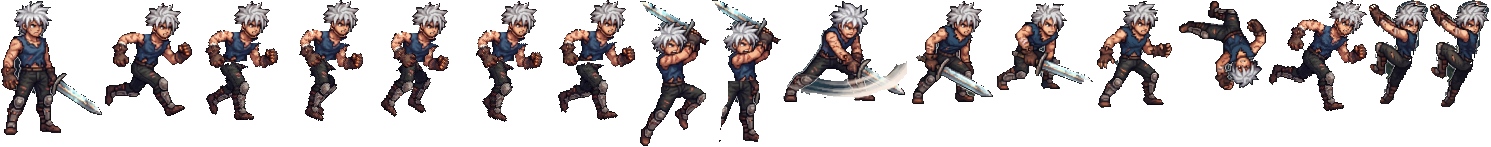
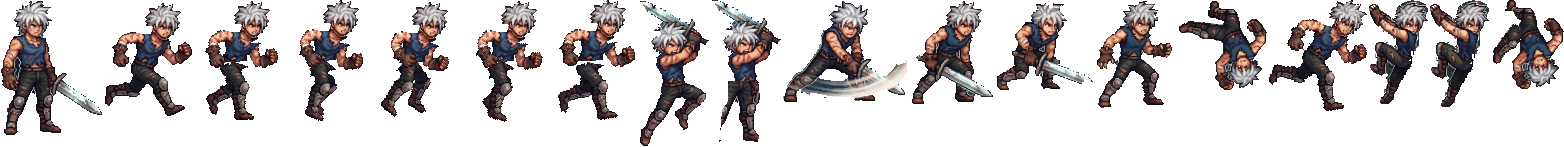
Rolamento vira recompensa do Jorge: Palheta do Pecador, novos quadros de rolamento e botão trancado no celular
Claude-Session: https://claude.ai/code/session_01ELunBH6xPqmejkKKecMgg3

diff --git a/js/render.js b/js/render.js
@@ -108,9 +108,10 @@ function gatherLights() {
     else if (e instanceof SonicNote) L.push({ x: e.x + 5, y: e.y + 5, r: 34, a: 0.8, col: [255, 50, 50] });
     else if (e instanceof Shockwave) L.push({ x: e.x + 6, y: e.y + 6, r: 40, a: 0.8, col: [255, 140, 60] });
   for (const it of G.items) {
+    if (it.wait > 0) continue;
     if (it.type === 'save') L.push({ x: it.x + 8, y: it.y + 2, r: 90, a: 1, col: [255, 140, 50], flick: 1 });
     else if (it.type === 'D') L.push({ x: it.x + 5, y: it.y + 5, r: 46, a: 0.9, col: [120, 220, 255] });
-    else if (it.type === 'H') L.push({ x: it.x + 5, y: it.y + 5, r: 46, a: 0.9, col: [255, 170, 70] });
+    else if (it.type === 'H') L.push({ x: it.x + 5, y: it.y + 5, r: it.reward ? 64 : 46, a: 0.95, col: [255, 120, 70] });
     else if (it.type === 'G') L.push({ x: it.x + 5, y: it.y + 5, r: 46, a: 0.9, col: [180, 130, 255] });
     else if (it.type === '+') L.push({ x: it.x + 5, y: it.y + 5, r: 40, a: 0.9, col: [255, 60, 80] });
     else if (it.type === 'E') L.push({ x: it.x + 5, y: it.y + 4, r: 80, a: 1, col: [120, 200, 255] });
@@ -224,6 +225,7 @@ function drawCracked() {
 function drawItems() {
   const t = G.time;
   for (const it of G.items) {
+    if (it.wait > 0) continue;
     const bob = Math.round(Math.sin(t * 2.5 + it.x) * 4);
     if (it.type === 'save') {
       const cx = (it.x + 8) * AP, by = (it.y + 16) * AP;
@@ -232,6 +234,15 @@ function drawItems() {
       ctx.drawImage(fr[Math.floor(t * 12) % fr.length], cx - 13, by - 74 + 28 - 32);
     } else if (it.type === 'D' || it.type === 'H' || it.type === 'G') {
       const s = it.type === 'D' ? SPR.relicD : it.type === 'H' ? SPR.relicH : SPR.relicG;
+      if (it.reward && it.vy === 0) {           // feixe de luz sobre a recompensa do chefe
+        const cx = (it.x + 5) * AP, by = (it.y + it.h) * AP;
+        ctx.save(); ctx.globalCompositeOperation = 'lighter';
+        const g = ctx.createLinearGradient(0, by - 150, 0, by);
+        g.addColorStop(0, 'rgba(255,90,60,0)'); g.addColorStop(1, `rgba(255,150,80,${0.22 + 0.08 * Math.sin(t * 4)})`);
+        ctx.fillStyle = g; ctx.fillRect(cx - 14, by - 150, 28, 150);
+        ctx.restore();
+        if (Math.random() < 0.3) spawnParticles(it.x + 5 + (Math.random() - 0.5) * 8, it.y + it.h, 1, '#ffb070', { angle: -Math.PI / 2, spread: 0.3, speed: 30, life: 0.9, size: 1 });
+      }
       ctx.drawImage(s, (it.x + 5) * AP - 18, (it.y + 5) * AP - 23 + bob);
     } else if (it.type === '+') {
       ctx.drawImage(SPR.life, (it.x + 5) * AP - 18, (it.y + 5) * AP - 22 + bob);
@@ -364,7 +375,7 @@ function shadowAt(x, y, w) {
 
 function heroPose(p) {
   if (p.wall) return 'wall' + (Math.floor(p.climbAnim / 10) % 2);
-  if (p.dashT > 0) return 'roll';
+  if (p.dashT > 0) return p.rollPose();
   if (p.stun > 0) return 'hurt';
   if (p.atkKind) {
     const ph = p.atkPhase();
@@ -426,7 +437,7 @@ function drawPlayer() {
   }
   shadowAt(cx, fy, p.onGround ? 26 : 16);
   const bob = pose === 'idle' && Math.sin(G.time * 2.6) > 0.6 ? -1 : 0;
-  drawHero(pose, cx, fy, p.facing, pose === 'roll' ? p.rollAngle() : 0, alpha, bob);
+  drawHero(pose, cx, fy, p.facing, pose.startsWith('roll') ? p.rollAngle() : 0, alpha, bob);
   // efeitos dos golpes
   if (p.atkKind && p.atkPhase() >= 1) {
     const a = ATK[p.atkKind], prog = 1 - (p.atkT - (a.hitTo - 0.06)) / (a.hitFrom - a.hitTo + 0.06);

diff --git a/js/main.js b/js/main.js
@@ -56,6 +56,11 @@ function enterRoom(id, px, py) {
     }
   }
 
+  // chefe já vencido mas a recompensa ficou para trás: ela continua ao lado do corpo
+  if (def.boss === 'guitarist' && (G.data.bosses || {}).guitarist) {
+    const b = G.enemies.find(e => e instanceof GuitaristBoss);
+    if (b) dropBossReward(b, 0);
+  }
   if (!G.data.visited[id]) { G.data.visited[id] = true; writeSave(); }
   G.roomTitle = { text: def.name, t: 2.5 };
   const p = G.player;
@@ -106,6 +111,21 @@ function updateItems(dt) {
   const p = G.player;
   let onSave = false;
   for (const it of G.items) {
+    if (it.drop) {                    // recompensa do chefe: espera, salta e cai no chão
+      if (it.wait > 0) {
+        it.wait -= dt;
+        if (it.wait <= 0) { G.shake = Math.max(G.shake, 0.15); spawnParticles(it.x + 5, it.y + 5, 26, '#ffcf70', { speed: 120, life: 0.7 }); }
+        continue;
+      }
+      it.vy = Math.min(it.vy + 600 * dt, 260);
+      it.x += it.vx * dt; it.y += it.vy * dt;
+      const ty = Math.floor((it.y + it.h) / TILE), tx = Math.floor((it.x + 5) / TILE);
+      if (it.vy > 0 && (isSolid(tileAt(tx, ty)) || tileAt(tx, ty) === '=')) {
+        it.y = ty * TILE - it.h; it.vx = 0;
+        if (it.vy > 80) spawnParticles(it.x + 5, it.y + it.h, 8, '#d8a040', { angle: -Math.PI / 2, spread: 2, speed: 50, life: 0.4 });
+        it.vy = 0;
+      }
+    }
     if (it.type === 'heart') {        // corações que caem dos inimigos
       it.vy = Math.min((it.vy || 0) + 500 * dt, 200);
       it.y += it.vy * dt;
@@ -139,7 +159,7 @@ function updateItems(dt) {
         break;
       case 'H':
         collect(it, () => { G.data.abilities.dash = true; },
-          'Rolamento', ctrl('Aperte C para rolar para a frente, até no ar. Durante o rolamento, ataques inimigos não te atingem.', 'Toque em ROLAR para rolar para a frente, até no ar. Durante o rolamento, ataques inimigos não te atingem.'), '#ffb347');
+          'Rolamento desbloqueado', ctrl('A Palheta do Pecador vibra em sua mão. Aperte C para rolar para a frente, até no ar. Durante o rolamento, ataques inimigos não te atingem.', 'A Palheta do Pecador vibra em sua mão. Toque em ROLAR para rolar para a frente, até no ar. Durante o rolamento, ataques inimigos não te atingem.'), '#ffb347');
         break;
       case 'G':
         collect(it, () => { G.data.abilities.climb = true; },
@@ -191,9 +211,22 @@ function respawnAtSave() {
 }
 
 // ---------- loop ----------
+// botão ROLAR do celular fica trancado até derrotar o Jorge
+let rollBtn, rollWasLocked = null;
+function syncTouchLocks() {
+  rollBtn = rollBtn || document.querySelector('[data-act="dash"]');
+  if (!rollBtn || !G.data) return;
+  const locked = !G.data.abilities.dash;
+  if (locked === rollWasLocked) return;
+  rollBtn.classList.toggle('locked', locked);
+  if (rollWasLocked && !locked) { rollBtn.classList.add('unlocked'); setTimeout(() => rollBtn.classList.remove('unlocked'), 3000); }
+  rollWasLocked = locked;
+}
+
 function update(dt) {
   G.time += dt;
   if (G.state === 'title') return;
+  syncTouchLocks();
 
   if (Input.pressed.pause && G.state === 'play' && !Controls.open) { G.paused = true; Controls.show('pause'); }
   if (G.paused) return;

diff --git a/index.html b/index.html
@@ -39,7 +39,7 @@
         <div class="row"><span class="keys"><span class="k">↓</span><span class="k">S</span></span><b>Agachar</b><i>atacar agachado = estocada · ↓ + pular desce da plataforma</i></div>
         <div class="row"><span class="keys"><span class="k">Shift</span><span class="k">V</span></span><b>Dash</b><i>arrancada rápida pelo chão</i></div>
         <div class="row" data-need="doubleJump"><span class="keys"><span class="k">Z</span></span><b>Pulo duplo</b><i>no ar · após o Salto Etéreo</i></div>
-        <div class="row" data-need="dash"><span class="keys"><span class="k">C</span></span><b>Rolar</b><i>invulnerável durante o rolamento · após o Rolamento</i></div>
+        <div class="row" data-need="dash"><span class="keys"><span class="k">C</span></span><b>Rolar</b><i>invulnerável durante o rolamento · ao derrotar Jorge O Pecador</i></div>
         <div class="row" data-need="climb"><span class="keys"><span class="k">← →</span></span><b>Escalar</b><i>pule numa parede segurando a direção · ↑ ↓ sobe e desce · pular = salto de parede · após as Garras</i></div>
         <div class="row"><span class="keys"><span class="k">Esc</span><span class="k">P</span></span><b>Pausar</b></div>
       </div>
@@ -59,7 +59,7 @@
         <div class="row"><span class="keys"><span class="mini jump s">▲</span></span><b>Pular</b><i>segure para mais alto · no ar = pulo duplo (após o Salto Etéreo)</i></div>
         <div class="row"><span class="keys"><span class="mini atk s">⚔</span></span><b>Atacar</b><i>2× seguidas = combo · agachado = estocada</i></div>
         <div class="row"><span class="keys"><span class="mini sprint s">D</span></span><b>Dash</b><i>arrancada rápida pelo chão</i></div>
-        <div class="row" data-need="dash"><span class="keys"><span class="mini dash s">R</span></span><b>Rolar</b><i>invulnerável · após o Rolamento</i></div>
+        <div class="row" data-need="dash"><span class="keys"><span class="mini dash s">R</span></span><b>Rolar</b><i>invulnerável · ao derrotar Jorge O Pecador</i></div>
         <div class="row" data-need="climb"><span class="keys"><span class="mini dpad s">✥</span></span><b>Escalar</b><i>pule na parede segurando a direção dela · após as Garras</i></div>
         <div class="row"><span class="keys"><span class="mini pause s">II</span></span><b>Pausar</b><i>botão no alto da tela</i></div>
         <p class="tip">Jogue com o celular deitado.</p>

diff --git a/css/style.css b/css/style.css
@@ -29,14 +29,14 @@ canvas#game {
 }
 #menu::before {                    /* preenche as sobras da tela com a própria arte desfocada */
   content: ""; position: absolute; inset: -40px;
-  background: url(../assets/menu_bg.jpg?v=20261017153103) center / cover no-repeat;
+  background: url(../assets/menu_bg.jpg?v=20261017154107) center / cover no-repeat;
   filter: blur(18px) brightness(.45);
 }
 #menu .stage {
   position: relative; container-type: inline-size;
   width: min(100vw, calc(100dvh * 2576 / 1405));
   aspect-ratio: 2576 / 1405;
-  background: url(../assets/menu_bg.jpg?v=20261017153103) center / 100% 100% no-repeat;
+  background: url(../assets/menu_bg.jpg?v=20261017154107) center / 100% 100% no-repeat;
   box-shadow: 0 0 60px rgba(0, 0, 0, .7);
 }
 /* brilho da joia da espada */
@@ -68,7 +68,7 @@ canvas#game {
 }
 #menu .item::before {             /* faixa vermelha com o dragão (só na opção selecionada) */
   content: ""; position: absolute; left: 0; top: 0; width: 100%; aspect-ratio: 540 / 145;
-  background: url(../assets/menu_band.png?v=20261017153103) 0 0 / 100% 100% no-repeat;
+  background: url(../assets/menu_band.png?v=20261017154107) 0 0 / 100% 100% no-repeat;
   opacity: 0; transition: opacity .15s; z-index: -1;
 }
 #menu .item.sel { color: #f0dfcc; }
@@ -221,3 +221,8 @@ body.in-menu #touch { display: none !important; }
 #controls .mini.dpad.demo .arr.right { margin: -6px 0 0 21px;  border-left: 8px solid #cfc6b0; border-right-width: 0; }
 #controls .mini.dpad.demo .nub { position: absolute; left: 50%; top: 50%; width: 24px; height: 24px; margin: -12px; border-radius: 50%;
   background: radial-gradient(circle at 35% 30%, #8a909a, #3d424a 60%, #1a1d21); border: 2px solid #000; }
+
+/* botão ROLAR trancado até vencer o chefe */
+#buttons button.locked { filter: grayscale(1) brightness(.55); opacity: .45; font-size: 0 !important; }
+#buttons button.locked::after { content: "🔒"; font-size: 20px; }
+#buttons button.unlocked { animation: tuthint .8s ease-in-out 4; }

diff --git a/js/hero.js b/js/hero.js
@@ -5,7 +5,7 @@
 //  Cada pose: [x, y, largura, altura, âncoraX, âncoraY] — âncora = entre os pés.
 //  Escalada (wall0/wall1): âncoraX = lado que encosta na parede, âncoraY = meio.
 // =============================================================
-const HERO_FRAMES = {"idle": [0, 0, 103, 136, 38.0, 135.0], "run0": [105, 0, 87, 116, 44.0, 116.0], "run1": [194, 0, 87, 120, 44.0, 120.0], "run2": [283, 0, 87, 121, 44.0, 121.0], "run3": [372, 0, 87, 117, 45.0, 117.0], "run4": [461, 0, 87, 122, 44.0, 122.0], "run5": [550, 0, 87, 120, 44.0, 120.0], "jump": [639, 0, 71, 147, 29.0, 146.0], "atk_raise": [712, 0, 69, 142, 28.0, 142.0], "attack": [783, 0, 126, 103, 43.0, 102.0], "crouch": [911, 0, 83, 105, 44.0, 104.0], "lunge": [996, 0, 98, 91, 55.0, 90.0], "hurt": [1096, 0, 77, 108, 35.0, 108.0], "roll": [1175, 0, 92, 91, 61.0, 90.0], "dash": [1269, 0, 98, 111, 57.0, 111.0], "wall0": [1369, 0, 59, 104, 0.0, 52.0], "wall1": [1430, 0, 59, 107, 0.0, 53.5]};
+const HERO_FRAMES = {"idle": [0, 0, 103, 136, 38.0, 135.0], "run0": [105, 0, 87, 116, 44.0, 116.0], "run1": [194, 0, 87, 120, 44.0, 120.0], "run2": [283, 0, 87, 121, 44.0, 121.0], "run3": [372, 0, 87, 117, 45.0, 117.0], "run4": [461, 0, 87, 122, 44.0, 122.0], "run5": [550, 0, 87, 120, 44.0, 120.0], "jump": [639, 0, 71, 147, 29.0, 146.0], "atk_raise": [712, 0, 69, 142, 28.0, 142.0], "attack": [783, 0, 126, 103, 43.0, 102.0], "crouch": [911, 0, 83, 105, 44.0, 104.0], "lunge": [996, 0, 98, 91, 55.0, 90.0], "hurt": [1096, 0, 77, 108, 35.0, 108.0], "roll": [1175, 0, 92, 91, 61.0, 90.0], "dash": [1269, 0, 98, 111, 57.0, 111.0], "wall0": [1369, 0, 59, 104, 0.0, 52.0], "wall1": [1430, 0, 59, 107, 0.0, 53.5], "roll_tuck": [1493, 0, 71, 89, 35.5, 89.0]};
 const RUN_FRAMES = 6;  // ciclo de corrida: run0..run5
 const heroImg = new Image();
 heroImg.src = 'assets/hero.png?v=' + ASSET_V;

diff --git a/js/sprites.js b/js/sprites.js
@@ -111,6 +111,25 @@ function relicSprite(base, light, dark) {
     b.set(11, 15, C('#ffffff')); b.set(10, 16, C('#ffffff'));
   }, { light: '#d8d4cc' });
 }
+// Palheta do Pecador: recompensa do Jorge (libera o Rolamento)
+function pickSprite() {
+  return makeSprite(36, 46, b => {
+    const pick = (s, c) => {                    // palheta: topo arredondado, ponta para baixo
+      b.ellipse(11, 13, 9 - s, 9 - s, c); b.ellipse(25, 13, 9 - s, 9 - s, c);
+      b.poly([[2 + s, 14], [34 - s, 14], [18, 43 - s * 1.6]], c);
+      b.rect(11, 4 + s, 14, 10, c);
+    };
+    pick(0, C('#7a4a14'));                      // aro de ouro velho
+    pick(1, C('#d8a040'));
+    pick(3, C('#5a0a14'));                      // corpo vermelho-sangue
+    pick(4, C('#9a1424'));
+    b.ellipse(12, 12, 4, 4, C('#d83040'));     // reflexo
+    b.ellipse(11, 11, 1.6, 1.6, C('#ff8a8a'));
+    b.poly([[20, 9], [13, 22], [18, 22], [15, 33], [24, 18], [19, 18], [23, 9]], C('#ffe6a0'));   // raio gravado
+    b.poly([[21, 10], [15, 21], [19, 21], [17, 29], [22, 19], [18, 19], [22, 10]], C('#fff8e0'));
+    b.set(29, 9, C('#fff0c0')); b.set(30, 10, C('#fff0c0'));
+  }, { light: '#d8d4cc' });
+}
 function lifeShardSprite() {
   return makeSprite(36, 44, b => {
     b.poly([[17, 2], [25, 18], [20, 40], [11, 40], [9, 16]], C('#b0182c'));
@@ -250,7 +269,7 @@ function buildSprites() {
   SPR.bat = [0, 1, 2].map(k => batFrame(k, false).canvas());
   SPR.batHit = batFrame(1, true).canvas();
   SPR.relicD = relicSprite('#3ab0d8', '#9ff0ff', '#1c6a8a').canvas();
-  SPR.relicH = relicSprite('#e08a2a', '#ffd28a', '#8a4a14').canvas();
+  SPR.relicH = pickSprite().canvas();
   SPR.relicG = relicSprite('#8a5ae0', '#d0b8ff', '#4a2a8a').canvas();
   SPR.life = lifeShardSprite().canvas();
   SPR.soul = soulSprite().canvas();

diff --git a/js/boss.js b/js/boss.js
@@ -216,7 +216,8 @@ class GuitaristBoss extends Enemy {
     closeBossGate(false);
     for (const e of G.enemies) if (e instanceof SonicNote || e instanceof Shockwave) e.dead = true;
     G.shake = 0.3;
-    showBanner('Chefe derrotado', 'Jorge, o Pecador, tocou seu último acorde. O portão se abre... e algo brilha no alto da galeria.', '#ff6a3a');
+    dropBossReward(this, 0.5);                // a Palheta salta do corpo logo depois que ele cai
+    showBanner('Chefe derrotado', 'Jorge, o Pecador, tocou seu último acorde. Algo escapa de suas mãos e cai no chão da galeria...', '#ff6a3a');
     G.banner.t = 6;
   }
 }
@@ -427,4 +428,14 @@ function drawBossUI() {
   ctx.fillStyle = '#ff7a50'; ctx.fillRect(x + 6, y + 6, Math.round(len * f), 2);
   ctx.fillStyle = 'rgba(0,0,0,0.6)'; ctx.fillRect(x + 6 + len / 2, y + 6, 2, 14);   // marca da fase 2
   text(BOSS_NAME, x + W / 2, y + 32, { size: 20, font: FONT_T, weight: 800, align: 'center', color: '#e0c8b0', spacing: 3 });
+}
+
+// ---------- recompensa: Palheta do Pecador (libera o Rolamento) ----------
+const BOSS_REWARD_KEY = 'galeria:jorge';
+function dropBossReward(boss, wait) {
+  if (G.data.collected[BOSS_REWARD_KEY]) return;
+  const cx = boss.x + boss.w / 2;
+  const toMid = cx < G.room.pw / 2 ? 1 : -1;            // salta para o lado mais aberto da arena
+  G.items.push({ type: 'H', key: BOSS_REWARD_KEY, x: cx - 5, y: boss.y + 8, w: 10, h: 10,
+    drop: true, wait, vx: wait ? toMid * 40 : 0, vy: wait ? -230 : 0, reward: true });
 }

diff --git a/js/entities.js b/js/entities.js
@@ -116,7 +116,7 @@ class Player {
       this.vx = this.facing * PHYS.DASH_SPEED;
       this.vy = 0;
       if (Math.floor(this.dashT * 60) % 4 === 0)
-        this.trail.push({ pose: 'roll', x: this.x + this.w / 2, y: this.y + this.h, f: this.facing, life: 0.18, rot: this.rollAngle() });
+        { const rp = this.rollPose(); if (rp !== 'crouch') this.trail.push({ pose: rp, x: this.x + this.w / 2, y: this.y + this.h, f: this.facing, life: 0.18, rot: this.rollAngle() }); }
       if (this.onGround && Math.random() < 0.5)
         G.particles.push({ x: this.x + this.w / 2, y: this.y + this.h - 1, vx: -this.facing * 30, vy: -10, life: 0.35, max: 0.35, color: '#5a5a50', size: 2, grav: 0 });
       if (this.dashT <= 0) this.vx = this.facing * PHYS.RUN;
@@ -252,7 +252,17 @@ class Player {
     }
   }
 
-  rollAngle() { return (1 - this.dashT / PHYS.DASH_TIME) * Math.PI * 2 * this.facing; }
+  // rolamento: agacha (0–12%), cambalhota completa (12–88%) e aterrissa agachado
+  rollProg() { return 1 - this.dashT / PHYS.DASH_TIME; }
+  rollPose() {
+    const q = this.rollProg();
+    if (q < 0.12 || q > 0.88) return 'crouch';
+    return q > 0.3 && q < 0.7 ? 'roll_tuck' : 'roll';
+  }
+  rollAngle() {
+    const q = Math.min(1, Math.max(0, (this.rollProg() - 0.12) / 0.76));
+    return (Math.PI + q * Math.PI * 2) * this.facing;     // o quadro 'roll' é de cabeça para baixo
+  }
 
   toSafe() {
     this.x = this.safe.x; this.y = this.safe.y;

diff --git a/js/rooms.js b/js/rooms.js
@@ -92,7 +92,7 @@ const ROOMS = {
     theme: 'torre', map: [
       '########################################',
       '#......................................#',
-      '#......H...............................#',
+      '#..+...................................#',
       '########...............................#',
       '#.........=====.........F..............#',
       '#......................................#',

diff --git a/js/engine.js b/js/engine.js
@@ -1,5 +1,5 @@
 // versão dos arquivos (atualizada pelo atualizar_versao.sh) — evita imagem antiga em cache
-const ASSET_V = '20261017153103';
+const ASSET_V = '20261017154107';
 
 // =============================================================
 //  MOTOR: constantes, estado global, colisão com blocos, partículas

diff --git a/README.md b/README.md
@@ -14,7 +14,7 @@ Abra o `index.html` no navegador — ou, se o GitHub Pages estiver ativado, aces
 | Pular | Z / Espaço | ▲ |
 | Atacar (aperte 2× para o combo: corte para baixo + corte para cima) | X | ⚔ |
 | Dash (arrancada no chão) | Shift / V | DASH |
-| Rolar (depois de pegar) | C / Shift | ROLAR |
+| Rolar (depois de vencer Jorge O Pecador) | C / Shift | ROLAR |
 | Agachar (atacar agachado = estocada) | ↓ | direcional pra baixo |
 | Escalar (depois de pegar as Garras) | pule na parede e segure a direção · ↑/↓ sobe/desce · pular = salto de parede | igual, com o direcional |
 | Descer da plataforma de madeira | ↓ + pular | direcional pra baixo + ▲ |
@@ -30,8 +30,8 @@ No começo de um jogo novo, um **tutorial** ensina os comandos (teclado ou toque
 - Herói com o sprite do autor, sem a borda branca: parado, corrida em 6 quadros, pulo, combo de espada (ergue → corta para baixo → corta para cima), agachado, estocada, ferido, rolamento, dash e escalada
 - Inimigos: **Lobisomem** (arte do autor) — patrulha, uiva ao ver o herói, avança num dash e ataca com combo de garradas — e Morcego
 - 6 salas: Catacumbas Esquecidas, Poço das Correntes, Galeria Submersa, Torre Arruinada, Ponte sobre o Abismo e Torre do Vigia (só com escalada)
-- Poderes que abrem caminhos: **Salto Etéreo** (pulo duplo), **Rolamento** (rola sem levar dano) e **Garras do Vigia** (escalar e saltar de paredes)
-- **Chefe: Jorge O Pecador, o Guitarrista Hardcore** (Galeria Submersa), com retrato na apresentação e animação de morte — — guitarrada que esmaga o chão com ondas de choque e riff que dispara notas musicais teleguiadas; fase 2 com metade da vida; guarda o Salto Etéreo
+- Poderes que abrem caminhos: **Salto Etéreo** (pulo duplo), **Rolamento** (rola sem levar dano — recompensa por derrotar Jorge: a Palheta do Pecador) e **Garras do Vigia** (escalar e saltar de paredes)
+- **Chefe: Jorge O Pecador, o Guitarrista Hardcore** (Galeria Submersa), com retrato na apresentação e animação de morte — — guitarrada que esmaga o chão com ondas de choque e riff que dispara notas musicais teleguiadas; fase 2 com metade da vida; ao morrer deixa cair a **Palheta do Pecador**, que libera o Rolamento
 - Estacas de ferro · blocos rachados · Fragmento de Vida
 - Retrato do herói com barra de vida (arte do autor), minimapa das salas visitadas, salvamento automático
 
